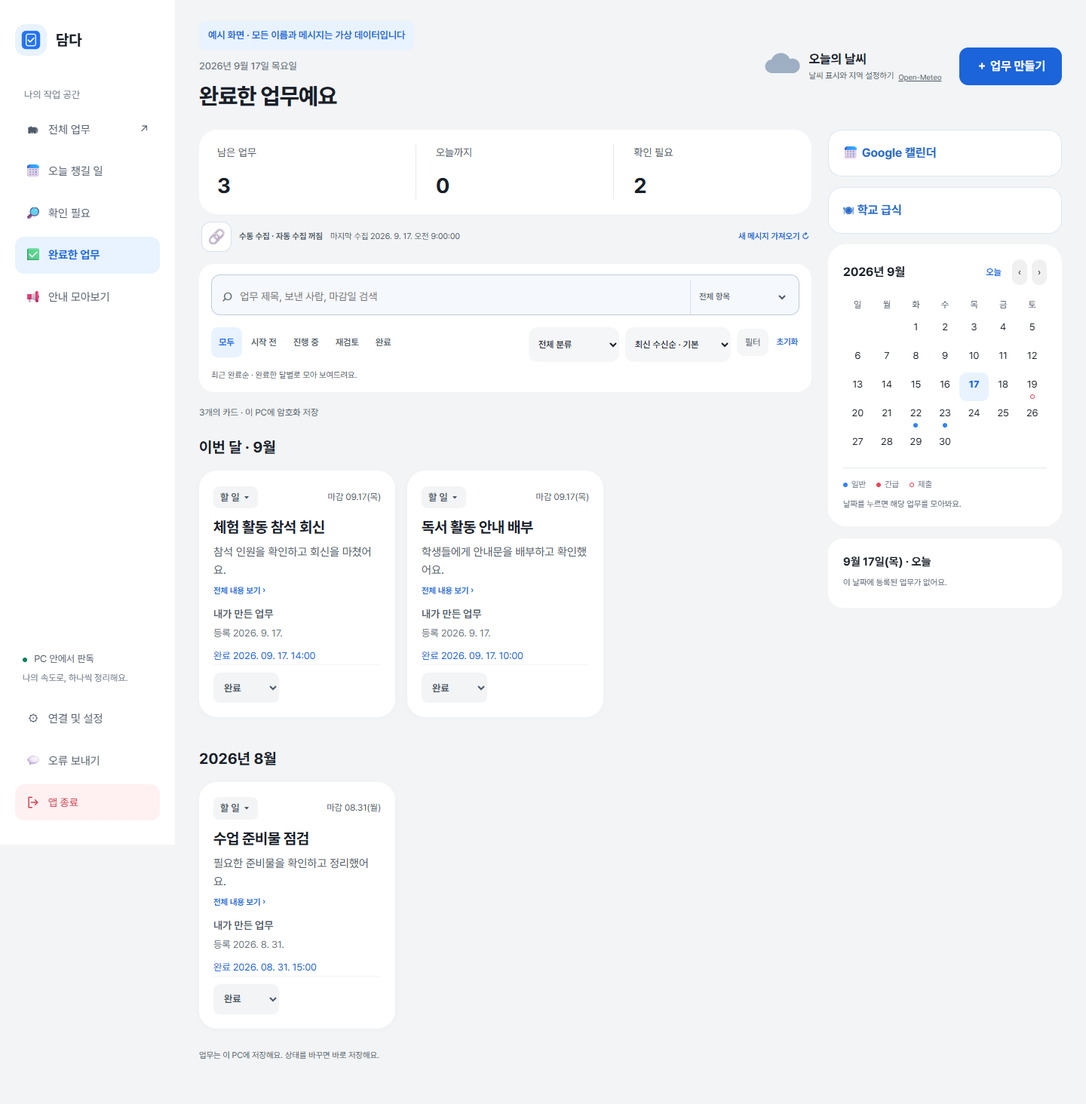
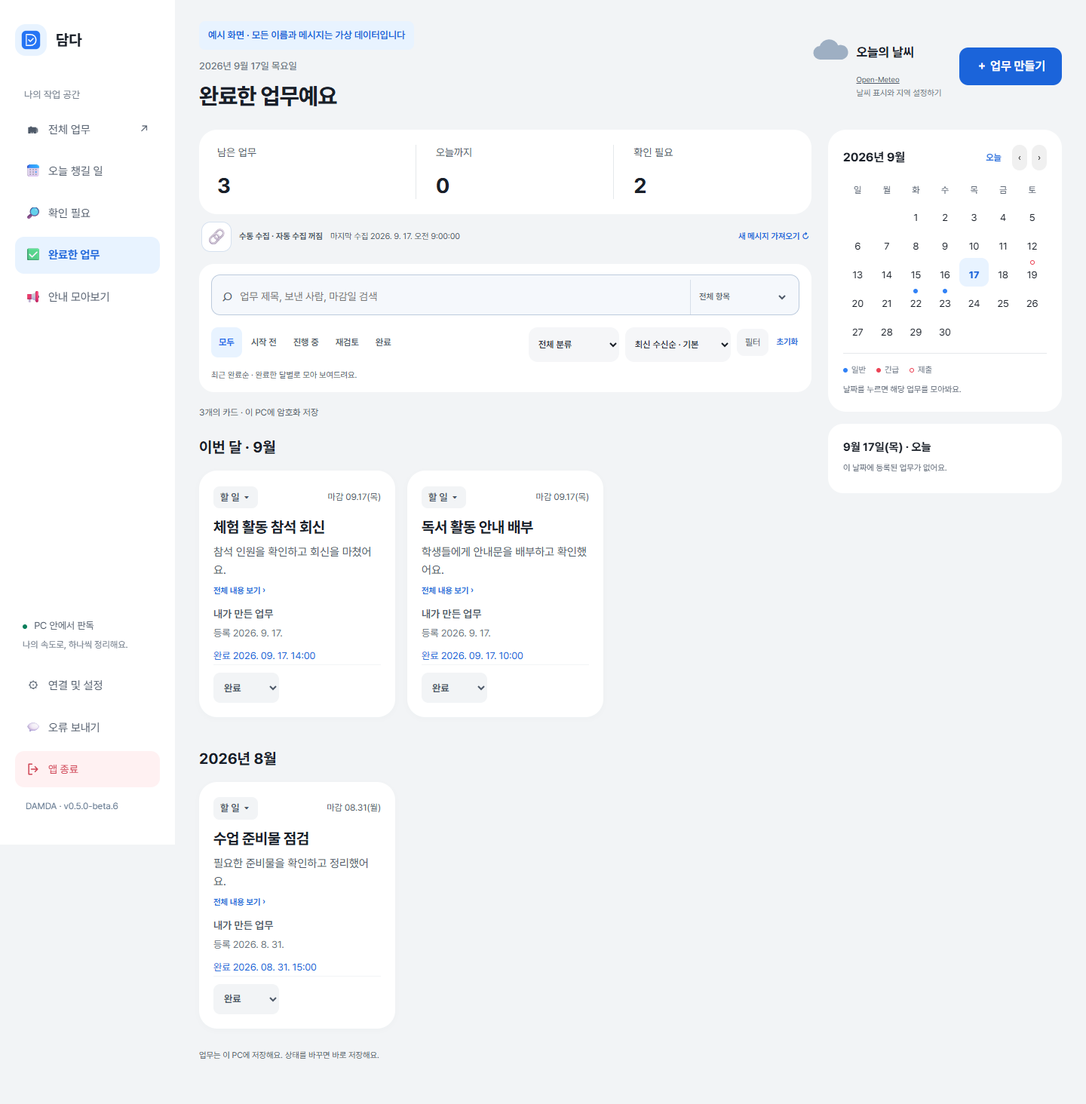
Focus beta.6 release and document Damda's evidenced development story

diff --git a/docs/index.html b/docs/index.html
@@ -3,7 +3,7 @@
 <head><meta charset="utf-8"><meta name="viewport" content="width=device-width, initial-scale=1"><meta name="description" content="담다 DAMDA는 선생님의 메시지를 업무 카드로 모아 정리하는 Windows 앱입니다."><title>담다 DAMDA · 선생님의 하루를 담다</title><link rel="stylesheet" href="styles.css"></head>
 <body>
 <a class="skip" href="#main">본문으로 이동</a>
-<header class="site-header"><a class="brand" href="#"><span class="brand-icon" aria-hidden="true">✓</span>담다 DAMDA</a><nav aria-label="소개 페이지"><a href="#features">주요 기능</a><a href="#start">시작하기</a><a href="#scope">개발 현황</a></nav></header>
+<header class="site-header"><a class="brand" href="#"><span class="brand-icon" aria-hidden="true">✓</span>담다 DAMDA</a><nav aria-label="소개 페이지"><a href="#features">주요 기능</a><a href="#start">시작하기</a><a href="#scope">개발 현황</a><a href="#behind-damda">담다 이야기</a></nav></header>
 <main id="main">
 <section class="hero wrap"><p class="eyebrow">Daily Assistant for Messaging &amp; Data Archive</p><h1>메시지에서 찾던 할 일,<br>이제 카드에서 챙겨요.</h1><p class="lead">요청과 회의를 업무 카드로 모아 보세요.<br>원문을 확인하고, 마감을 수정하고, 끝낸 일까지 한곳에서 관리해요.</p><div class="actions"><a class="button" href="#preview">화면 미리 보기 <span aria-hidden="true">↓</span></a><a class="button secondary" href="https://github.com/pandabin3-code/damda-releases/releases">설치 파일 받기</a></div><p class="fine">Windows 64비트 설치형 베타 · 쿨메신저 연결은 선택 사항이에요.</p>
 <figure id="preview" class="hero-preview"><img src="images/01-dashboard.png" alt="가상 업무 카드들이 보낸 사람, 마감과 진행 상태를 보여주는 전체 업무 화면"><figcaption>화면에 등장하는 이름과 메시지는 모두 예시 데이터예요.</figcaption></figure></section>
@@ -15,8 +15,40 @@
 <section class="wrap trust"><div><p class="eyebrow">내 PC 안에 저장</p><h2>원문을 보관하고,<br>내가 수정한 업무를 지켜요.</h2><p>검증한 백업 복사본에서 메시지를 가져와요. 원문과 업무는 현재 Windows 사용자 계정에 연결된 방식으로 암호화해 저장해요.</p><p>현재 판독은 로컬 규칙 기반이며 외부 AI로 메시지를 보내지 않아요. 저장 파일 복사만으로 다른 기기에 이관할 수 있는 구조는 아니에요.</p></div><aside><h3>문제가 생겼나요?</h3><p>‘오류 보내기’에서 상황을 적으면 진단 정보를 담은 GitHub 오류 작성 화면으로 연결돼요. 메시지 원문과 보낸 사람 정보는 자동으로 포함하지 않아요.</p><p class="fine">GitHub에서 내용을 확인하고 제출해 주세요. 직접 적은 설명에도 개인정보가 없는지 확인해 주세요.</p></aside></section>
 <section class="wrap scope" id="scope"><div class="section-heading"><p class="eyebrow">개발 현황</p><h2>지금 가능한 것과<br>앞으로 준비할 것.</h2><p>설치 파일로 시작하고, 새 버전 알림으로 개선 사항을 받아보세요. 자동 판독은 원문과 함께 확인해 주세요.</p></div><div class="scope-grid"><article><span class="pill">현재 설치형 베타</span><h3>Windows PC에서 사용할 수 있어요</h3><ul><li>업무 카드 생성·편집·검색·상태 관리</li><li>선택형 쿨메신저 가져오기와 원문 확인</li><li>로컬 규칙 기반 요약·종류 분류</li><li>날짜 제안·확인 필요 표시와 완료 시각 기록</li><li>링크·첨부파일 바로 열기, 분류 빠른 변경</li><li>새 버전 알림과 설치 파일 업데이트</li><li>현재 계정에 연결된 암호화 저장</li></ul><p class="fine">Python을 따로 설치하지 않아도 돼요. WebView2가 필요하며, 설치 마법사에서 런타임 설치를 도와줘요.</p></article><article><span class="pill muted">후속 계획</span><h3>기기와 사용 환경을 넓혀갈 예정이에요</h3><ul><li>모바일 이용 경험 개선</li><li>다른 기기와의 안전한 자료 연동</li><li>검증 자료에 기반한 소형 모델 검토</li><li>모바일 이용과 Google Drive 동기화</li></ul><p class="fine">모바일 앱·동기화·학습된 소형 AI는 현재 제공 기능이 아니에요. PC·모바일 읽음 상태 보존을 보장하는 버전도 아니에요.</p></article></div></section>
 <section class="feature wrap"><div class="feature-copy"><p class="eyebrow">확인할 수 있는 자동 정리</p><h2>왜 이렇게 정리됐는지,<br>근거를 함께 확인해요.</h2><p>최초 판독에 사용한 원문 구간과 확인이 필요한 이유를 펼쳐 볼 수 있어요. 대상과 날짜가 맞는지 확인하고 내 업무에 맞게 다듬어 보세요.</p><p class="fine">이 설명은 처음 가져왔을 때의 분석이에요. 직접 수정한 내용의 정확성을 보증하지 않아요.</p></div><figure><img src="images/07-analysis.png" loading="lazy" alt="가상 메시지에서 추출한 원문 근거와 검토 이유를 펼친 업무 상세 화면"><figcaption>예시 데이터 · 원문 근거와 확인할 내용을 함께 보여줘요.</figcaption></figure></section>
-<section id="connected-tools" class="feature wrap"><div class="feature-copy"><p class="eyebrow">베타 0.5 · 선택해서 연결</p><h2>필요한 업무를<br>Google 캘린더에도.</h2><p>업무의 제목과 날짜·시간을 확인하고 선택한 캘린더에 등록하거나 갱신해요. 같은 업무의 중복 등록을 방지하고, Google에서 바뀐 일정은 덮어쓰기 전에 멈춰요.</p><p class="fine">담다 → Google 단방향 수동 동기화입니다. 데스크톱 OAuth 설정과 Google 로그인이 필요해요. 실제 계정 연결 검증은 별도이며 학교 계정 정책에 따라 제한될 수 있어요.</p></div><figure><img src="images/08-calendar.png" loading="lazy" alt="합성 Google 연결 상태와 가상 업무를 선택하는 캘린더 화면"><figcaption>합성 예시 · 실제 계정이나 일정이 아닙니다.</figcaption></figure></section>
-<section class="tint"><div class="feature wrap reverse"><div class="feature-copy"><p class="eyebrow">베타 0.5 후속 기능</p><h2>이번 주 급식도<br>같은 공간에서.</h2><p>학교를 선택하고 주간 식단과 영양 정보를 살펴봐요. 한 번 조회한 결과는 잠시 보관해 반복 조회를 줄여요.</p><p class="fine">나이스 정식 인증키가 필요해요. 학교가 식단을 등록하지 않은 날과 통신 오류를 구분해서 알려드려요. 실제 학교 조회는 인증키 설정 후 확인할 수 있어요.</p></div><figure><img src="images/09-meals.png" loading="lazy" alt="가상의 학교와 식단으로 구성한 급식 조회 화면"><figcaption>합성 식단 예시 · 실제 학교 식단이 아닙니다.</figcaption></figure></div></section>
+<section id="behind-damda" class="behind tint" aria-labelledby="behind-title">
+  <div class="wrap">
+    <div class="section-heading">
+      <p class="eyebrow">담다를 만들며</p>
+      <h2 id="behind-title">처음부터<br>지금의 담다는 아니었어요.</h2>
+      <p>분명 읽었는데, 다시 찾게 되는 제출 기한.<br>메시지를 읽는 일과 해야 할 일을 챙기는 일 사이에서 시작했습니다.</p>
+      <p class="fine">프로젝트에 남아 있는 프로그램과 개발 기록으로 돌아본 이야기예요.<br>화면의 내용은 모두 가상 예시이며, 재촬영한 화면은 따로 표시했어요.</p>
+    </div>
+    <article class="story-scene story-first">
+      <div class="story-copy"><span class="pill">처음의 업무함</span><h3>메시지를 옮겨,<br>할 일의 초안을 만들었어요.</h3><p>초기 TeacherInbox는 표로 된 업무함이었어요. 메시지를 직접 넣고 제목과 날짜를 살펴보며 업무로 정리했죠. 이후에는 검증된 백업에서 가져오는 기능도 붙었습니다.</p><p>그런데 정보를 가져오는 것만으로는 충분하지 않았어요. 결국 선생님이 해야 할 일이 잘 보여야 했습니다.</p></div>
+      <figure><div class="story-frame">보존된 초기 프로그램 · 재실행</div><img src="images/story-01-legacy-inbox.png" loading="lazy" alt="초기 TeacherInbox의 표 형태 업무 목록과 오른쪽 검토 입력란"><figcaption>초기 계열의 보존 소스로 재촬영 · 합성 예시 · 당시 최초 빌드와는 다를 수 있어요.</figcaption></figure>
+    </article>
+    <article class="story-scene">
+      <div class="story-copy"><span class="pill">다른 화면도 시도했어요</span><h3>오늘 할 일을<br>앞에 두고 싶었어요.</h3><p>할 일과 일정을 함께 보여주는 COOL 업무비서를 거쳐, 더 단순한 개인 작업 공간도 만들어 보았습니다. 목록 옆에서 실행 방법과 근거를 확인하고 고치는 실험이었어요.</p><p>여러 화면을 만들며 남은 질문은 하나였어요. “다시 읽고 찾는 수고를 얼마나 줄일 수 있을까?”</p></div>
+      <figure><div class="story-frame">개인 작업 공간 · 별도로 시도한 화면</div><img src="images/story-02-personal-workspace.png" loading="lazy" alt="NewWorkspace에서 오늘의 업무 목록과 실행 정보 및 근거를 함께 보여주는 화면"><figcaption>보존된 사용 흐름 실험을 재실행 · 자체 합성 예시 · 실제 메시지 연결 화면이 아니에요.</figcaption></figure>
+    </article>
+    <article class="story-scene">
+      <div class="story-copy"><span class="pill">업무 카드의 시작</span><h3>이제 메시지를<br>카드에 담아 보았습니다.</h3><p>TaskCards에서는 메시지 속 요청을 큰 카드로 모으고, 상태를 바꾸며 처리할 수 있게 했어요. 지금 담다 카드 화면의 초기 모습입니다.</p><p>처음에는 내용을 많이 보여주려 했어요. 글자 잘림을 고치자 카드가 길어졌고, 이후에는 짧게 훑어본 뒤 원문을 펼치는 방향으로 다듬었습니다.</p></div>
+      <figure><div class="story-frame">보존된 TaskCards 소스 · 재실행</div><img src="images/story-03-taskcards-archive.png" loading="lazy" alt="초기 업무 카드 화면의 큰 카드와 상태 선택 버튼"><figcaption>보존된 v0.1.0 카드 UI로 재촬영 · 합성 예시 · 실행에 필요한 저장 기반은 현재 모듈을 사용했어요.</figcaption></figure>
+    </article>
+    <div class="story-lessons">
+      <article><h3>나눌수록 편한 건 아니었어요.</h3><p>한 메시지에서 요청을 나눠 여러 카드를 만들기도 했어요. 하지만 비슷한 카드가 반복되어 보였습니다. 그래서 지금은 메시지 하나를 카드 하나에 담고, 이전 수정 기록도 남겨요.</p></article>
+      <article><h3>짧다고 늘 좋은 요약은 아니었어요.</h3><p>기한만큼 대상과 조건도 중요했어요. 지금도 자동 정리가 틀릴 수 있어요. 원문과 판단 근거를 함께 확인하고, 분류와 내용을 직접 고칠 수 있게 했습니다.</p></article>
+    </div>
+    <article class="story-current">
+      <div class="section-heading"><p class="eyebrow">그리고 지금의 담다</p><h3>메시지는 담아 두고,<br>할 일은 한눈에.</h3><p>짧은 카드에서 업무를 찾고, 필요할 때 원문을 펼쳐요.<br>끝낸 일은 기록하고, 다음 개선은 업데이트로 전합니다.</p></div>
+      <figure><div class="story-frame">현재 담다 · 공개판</div><img src="images/01-dashboard.png" loading="lazy" alt="현재 담다의 업무 카드, 검색 및 마감 달력"><figcaption>현재 앱을 합성 메시지로 촬영 · 개인 메시지와 계정 정보는 포함하지 않았어요.</figcaption></figure>
+      <p class="story-ending">담다는 아직 다듬는 중입니다.<br>선생님의 하루에서 다시 찾는 수고가 조금씩 줄어들기를 바랍니다.</p>
+      <p class="story-name">담다 <span>Daily Assistant for Messaging &amp; Data Archive</span></p>
+      <p class="fine"><a href="STORY_SOURCES.md">이 이야기에 사용한 기록과 화면 출처 보기</a></p>
+    </article>
+  </div>
+</section>
+
 <section class="wrap closing"><h2>요청은 모아 보고,<br>끝낸 일은 기록해요.</h2><a class="button" href="#preview">담다 화면 보기 <span aria-hidden="true">↑</span></a><p class="fine">설치 파일은 GitHub Releases에서 받을 수 있어요. 이 소개 자료에는 개인 메시지가 포함되지 않아요.</p></section>
 </main><footer class="wrap footer"><span class="brand">담다 DAMDA</span><p>자체 제작한 소개 화면 · 합성 예시 데이터 사용<br>외부 이미지·글꼴·분석 서비스 요청 없이 열 수 있어요.</p></footer>
 </body></html>

diff --git a/docs/styles.css b/docs/styles.css
@@ -1,1 +1,3 @@
 :root{color-scheme:light;--ink:#191f28;--muted:#586779;--primary:#1b64da;--paper:#f2f4f6;--line:#e5e8eb;font-family:"Apple SD Gothic Neo","Pretendard Variable","Malgun Gothic",system-ui,sans-serif;color:var(--ink);background:#fff;font-synthesis:none;line-height:1.65;word-break:keep-all;overflow-wrap:anywhere}*{box-sizing:border-box}html{scroll-behavior:smooth;scroll-padding-top:100px}body{margin:0}a{color:inherit;text-decoration:none}a:focus-visible{outline:3px solid #86b6ff;outline-offset:5px}img{display:block;width:100%;height:auto}figure{margin:0}figcaption{font-size:13px;color:var(--muted);margin-top:15px;text-align:center}h1,h2,h3,p{margin:0}h1,h2,h3{line-height:1.3;letter-spacing:-.045em}h1{font-size:clamp(36px,5vw,66px);font-weight:800}h2{font-size:clamp(28px,3.2vw,42px)}h3{font-size:23px}p{color:var(--muted)}.wrap{width:min(1160px,calc(100% - 64px));margin:auto}.site-header{display:flex;align-items:center;justify-content:space-between;gap:20px;padding:20px max(32px,calc((100vw - 1160px)/2));border-bottom:1px solid var(--line);background:#fff}.brand{display:flex;align-items:center;gap:10px;font-size:20px;font-weight:800;white-space:nowrap}.brand-icon{display:grid;place-items:center;background:#e8f3ff;color:var(--primary);border-radius:12px;width:38px;height:38px}.site-header nav{display:flex;gap:28px;font-size:15px;color:var(--muted)}.skip{position:absolute;top:-100px;background:var(--primary);color:white;padding:10px;z-index:5}.skip:focus{top:5px}.hero{padding-top:86px;text-align:center}.eyebrow{font-size:15px;color:var(--primary);font-weight:700;margin-bottom:20px}.lead{font-size:21px;line-height:1.75;margin-top:26px}.actions{display:flex;justify-content:center;flex-wrap:wrap;gap:12px;margin:32px 0 18px}.button{display:inline-flex;align-items:center;justify-content:center;gap:16px;min-height:54px;padding:14px 24px;border-radius:14px;background:var(--primary);color:white;font-weight:700}.button:hover{background:#1555bd}.button.secondary{background:#edf3fb;color:var(--primary)}.fine{font-size:14px;line-height:1.75}.hero-preview{margin:52px 0 110px}.hero-preview img{border:1px solid var(--line);border-radius:20px;box-shadow:0 22px 65px #192e4812}.section-heading{margin-bottom:42px}.section-heading>p:last-child:not(.eyebrow){margin-top:22px}.benefits{display:grid;grid-template-columns:repeat(3,1fr);gap:20px;margin-bottom:110px}.benefits article{padding:32px;border-radius:24px;background:var(--paper)}.step{font-weight:800;color:var(--primary);font-size:15px;display:block;margin-bottom:35px}.benefits p{margin-top:16px}.feature{display:grid;grid-template-columns:1fr 1.35fr;gap:52px;align-items:center;padding-top:92px;padding-bottom:92px}.feature-copy>p:not(.eyebrow){margin-top:24px;font-size:17px}.feature-copy>p.fine{font-size:14px}.feature figure img,.settings-preview img{border:1px solid var(--line);border-radius:20px;box-shadow:0 12px 40px #192e480b}.tint{background:#f7f9fc}.reverse .feature-copy{order:2}.reverse figure{order:1}.subtle{color:#6b7684}.review-mark{color:#a55b00}.onboarding{padding-top:90px;padding-bottom:90px}.steps{padding:0;list-style:none;counter-reset:steps;display:grid;grid-template-columns:repeat(4,1fr);gap:28px;margin:0 0 45px}.steps li{counter-increment:steps}.steps li:before{content:counter(steps);display:grid;place-items:center;width:34px;height:34px;border-radius:50%;background:#e8f3ff;color:var(--primary);font-weight:800;margin-bottom:18px}.steps strong{font-size:18px}.steps p{margin-top:12px;font-size:15px}.settings-preview{max-width:840px;margin:auto}.trust{display:grid;grid-template-columns:1.3fr 1fr;gap:80px;padding-top:110px;padding-bottom:110px}.trust>div>p:not(.eyebrow){margin-top:24px}.trust aside{align-self:center;padding:32px;border-radius:24px;background:var(--paper)}.trust aside p{margin-top:18px}.scope{padding-top:20px;padding-bottom:100px}.scope-grid{display:grid;grid-template-columns:1fr 1fr;gap:24px}.scope-grid article{border:1px solid var(--line);border-radius:24px;padding:32px}.pill{display:inline-block;color:var(--primary);background:#e8f3ff;border-radius:8px;font-size:13px;font-weight:700;padding:5px 10px;margin-bottom:20px}.pill.muted{background:var(--paper);color:var(--muted)}ul{padding-left:20px;color:var(--muted);margin:22px 0}li+li{margin-top:8px}.closing{border-radius:30px;background:var(--paper);text-align:center;padding:60px 30px}.closing .button{margin:30px 0 20px}.footer{display:flex;justify-content:space-between;align-items:center;gap:28px;padding-top:50px;padding-bottom:40px}.footer p{font-size:13px;text-align:right}@media(max-width:800px){.wrap{width:calc(100% - 40px)}.site-header{padding:18px 20px}.site-header nav{gap:16px;font-size:13px}.hero{padding-top:60px}.lead{font-size:18px}.hero-preview{margin-bottom:70px}.benefits{grid-template-columns:1fr;margin-bottom:50px}.benefits article{padding:26px}.step{margin-bottom:18px}.feature{grid-template-columns:1fr;gap:35px;padding-top:65px;padding-bottom:65px}.reverse .feature-copy{order:0}.reverse figure{order:0}.steps{grid-template-columns:1fr 1fr;gap:30px}.trust{grid-template-columns:1fr;gap:32px;padding-top:70px;padding-bottom:70px}.scope-grid{grid-template-columns:1fr}.scope{padding-bottom:60px}.onboarding{padding-top:65px;padding-bottom:65px}.footer{align-items:flex-start}.closing{width:calc(100% - 40px)}}@media(max-width:440px){.site-header{flex-wrap:wrap;gap:12px}.site-header nav{width:100%;justify-content:space-between}.steps{grid-template-columns:1fr}.hero h1 br{display:none}.lead br{display:none}.actions{flex-direction:column}.footer{flex-direction:column}.footer p{text-align:left}.scope-grid article{padding:24px}}@media(prefers-reduced-motion:reduce){html{scroll-behavior:auto}}
+/* Behind story uses the existing palette, text scale and image treatment. */
+.behind{padding:95px 0}.story-scene{display:grid;grid-template-columns:minmax(0,.7fr) minmax(0,1.3fr);gap:45px;align-items:center;margin:90px 0}.story-scene>*{min-width:0}.story-copy h3,.story-current h3{font-size:clamp(26px,3vw,40px);line-height:1.4;letter-spacing:-.035em}.story-copy p{margin-top:22px}.story-first figure{max-width:650px;margin-left:auto}.story-frame{padding:12px 18px;color:var(--muted);font-size:12px;border-bottom:1px solid var(--line);background:white;border-radius:18px 18px 0 0}.behind figure img{border-radius:0;display:block;width:100%;height:auto}.behind figure{overflow:hidden;border-radius:18px;background:white}.behind figcaption{padding:12px 18px;font-size:12px}.story-lessons{display:grid;grid-template-columns:1fr 1fr;gap:24px;margin:65px 0 100px}.story-lessons article{background:white;border-radius:24px;padding:30px}.story-lessons p{margin-top:16px}.story-current{text-align:center}.story-current figure{text-align:left}.story-ending{margin:45px 0 20px;font-size:20px}.story-name{font-weight:700;color:#486484}.story-name span{display:block;font-size:14px;font-weight:400;color:#7189a4;margin:8px 0 20px}.behind .fine a{text-decoration:underline;text-underline-offset:4px}@media(max-width:800px){.story-scene{grid-template-columns:1fr;gap:28px;margin:60px 0}.story-first figure{max-width:none}.story-lessons{grid-template-columns:1fr;margin-bottom:65px}.behind{padding:65px 0}.story-scene figure{margin:0}.story-ending{font-size:18px}}

diff --git a/RELEASE_GUIDE.md b/RELEASE_GUIDE.md
@@ -1,60 +1,19 @@
-# 담다 DAMDA 배포 안내 · 0.5.0-beta.3
+# 담다 0.5.0-beta.6
 
 Daily Assistant for Messaging & Data Archive
 
-## 설치와 업데이트
+이번 공개판은 쿨메신저 메시지와 업무 카드 관리에 집중합니다.
 
-- 권장 파일: `Damda-WebView-Preview-Setup-0.5.0-beta.3-x64.exe`. 일반 프로그램 창으로 실행합니다.
-- 대체 파일: `Damda-Setup-0.5.0-beta.3-x64.exe`. 기본 브라우저에서 실행합니다. 두 버전은 같은 사용자 업무를 사용하므로 동시에 실행하지 않습니다.
-- Windows 64비트용입니다. Python을 따로 설치할 필요가 없습니다. WebView 버전은 Microsoft WebView2 런타임이 필요하며 설치 마법사가 런타임 설치를 지원합니다. 런타임이 없는 PC는 인터넷 연결이 필요합니다.
-- 편집 내용을 저장한 뒤 새 설치 파일을 실행하세요. 설치 프로그램이 실행 중인 담다에 정상 종료를 요청하고 파일 잠금 해제를 기다립니다. 가져오기나 동기화가 진행 중이면 완료 후 다시 설치하세요. 강제 종료로 저장을 건너뛰지 않습니다.
-- 위 자동 종료 요청은 권장 WebView 설치본의 동작입니다. 브라우저 대체 설치본은 앱의 `앱 종료`를 먼저 눌러야 합니다. 브라우저 탭만 닫으면 백엔드가 남을 수 있습니다.
-- 앱 시작 시와 사용 중 약 6시간 간격으로 새 버전을 확인합니다. 새 버전이 있으면 알림과 다운로드 링크를 표시합니다. 다운로드와 설치는 사용자가 시작합니다. 자동으로 강제 업데이트하지 않습니다.
-- 업무와 설정은 설치 폴더 밖에 보관합니다. 재설치·업데이트·일반 제거는 업무 초기화가 아닙니다. 초기 화면 검증은 별도의 첫 실행 테스트 기능을 사용하세요.
-- 베타 설치 파일에는 코드 서명이 없습니다. 조직의 실행 제한이나 Windows 보안 정책 때문에 설치가 차단될 수 있습니다. 승인된 배포 정책을 따르세요.
+- Google 캘린더 연결과 급식 조회를 제외했습니다. 앱 안의 업무 마감 달력은 유지합니다.
+- 개인 메시지를 사용하는 ‘요약 함께 교정’은 공개판에서 제외했습니다. 기존 개인 교정 파일과 업무는 삭제하지 않습니다.
+- 현재 사용자 계정의 메시지함 탐지와 문서 폴더 이동을 합성 환경에서 확인했습니다. 후보가 여러 개면 임의로 선택하지 않고 설정에서 선택합니다.
+- 소개 페이지에 초기 TeacherInbox·TaskCards의 보존된 프로그램을 재실행한 화면과 담다의 개발 이야기를 추가했습니다. 모든 화면은 가상 예시입니다.
 
-## 다른 PC에서 달라지는 부분
+설치 파일은 사용 중인 방식에 맞게 선택하세요. 일반 앱 창은 WebView, 브라우저 사용자는 기본 설치 파일입니다. beta.4 이상은 앱의 자동 업데이트 버튼으로 다운로드·검증·설치를 시작할 수 있습니다. 그 이전 버전은 새 설치 파일을 직접 실행하세요. 미저장 편집은 저장한 뒤 업데이트하세요.
 
-- 쿨메신저 메시지함은 각 PC에서 기본 위치를 찾습니다. 다른 위치에 설치했다면 설정에서 변경합니다. 개발자의 경로를 기본값으로 배포하지 않습니다.
-- 첨부파일 기본 위치는 해당 Windows 사용자의 문서 폴더 안 `CoolMessenger Files / Received Files`입니다. 문서 폴더가 이동된 환경도 사용자의 문서 위치를 따릅니다. 설정에서 변경할 수 있습니다.
-- 자동 가져오기 작업은 PC마다 최초 한 번 연결해야 합니다. 관리자 계정의 UAC 승인으로 등록한 뒤 주기적 가져오기에는 별도 승인 창을 띄우지 않습니다. 일반 사용자 계정에서 다른 관리자 자격 증명을 쓰는 경우는 같은 흐름을 보장하지 않으며 전산 담당자 설정이 필요할 수 있습니다.
-- 쿨메신저가 없는 PC에서도 업무를 직접 만들 수 있습니다. 연결을 강제하지 않습니다.
-- 학교 방화벽은 GitHub, Google, 날씨 제공처, 나이스 접속을 제한할 수 있습니다. 연결 실패를 최신 버전 또는 급식 없음으로 표시하지 않습니다.
-- 저장 내용은 현재 Windows 사용자 계정에 연결해 암호화합니다. 파일 복사만으로 다른 PC에서 복원하는 기능은 제공하지 않습니다. 모바일 읽음 상태는 검증 유예 상태이며 보존을 보장하지 않습니다.
+Windows x64 베타입니다. 다른 물리 PC 전부에서의 동작을 보장하는 검증은 아니며, 학교 보안 정책에 따라 백업 연결이 제한될 수 있습니다. 실제 원문 판독은 로컬 규칙 기반으로, 필요한 부분은 원문과 함께 확인해 주세요.
 
-## Google 캘린더 · beta.1에서 추가
 
-오른쪽 `📅 Google 캘린더`에서 연결합니다. 현재는 **담다 → Google 단방향 수동 동기화**입니다. 제목·마감일·시각을 확인한 업무만 선택해서 등록하거나 갱신합니다. 원문, 첨부파일, 발신자 필드를 자동 전송하지 않습니다. 제목 자체에 개인정보를 적었다면 전송 전에 확인하세요.
+[WebView download](https://github.com/pandabin3-code/damda-releases/releases/download/v0.5.0-beta.6/Damda-WebView-Preview-Setup-0.5.0-beta.6-x64.exe)
 
-Google Cloud에서 Calendar API를 활성화하고 OAuth 동의 화면과 **데스크톱 앱** 클라이언트를 구성해야 합니다. 앱의 최초 연결 설정에 다운로드한 JSON 경로를 입력한 뒤 Google 로그인을 누릅니다. 로그인은 시스템 브라우저에서 진행하며 PKCE와 임의 포트의 로컬 콜백을 사용합니다. 테스트 모드의 사용자 제한·인증 만료, 학교 계정의 관리 정책이 적용될 수 있습니다. 공개 배포용 OAuth 동의 화면과 필요한 Google 검증은 배포자가 별도로 준비해야 합니다.
-
-현재 배포에는 개발자 OAuth JSON이나 사용자 토큰이 포함되지 않습니다. 실제 계정 로그인·일정 등록은 계정 설정이 없어 아직 검증하지 않았습니다. 합성 테스트로 중복 ID, 재시도, ETag 충돌, 선택 확인 및 원문 미전송 경로를 검증했습니다.
-
-연결을 해제해도 이미 등록한 일정은 삭제하지 않습니다. Google에서 삭제·변경한 일정은 무조건 복원하거나 덮어쓰지 않습니다. 완료·삭제 상태의 양방향 동기화는 제공하지 않습니다.
-
-공식 문서: https://developers.google.com/identity/protocols/oauth2/native-app
-
-## 학교 급식 · beta.2에서 추가
-
-오른쪽 `🍽 학교 급식`에서 나이스 인증키를 저장하고 학교 이름을 검색해 선택합니다. 주간 식단·칼로리·영양 정보를 조회하며 알레르기 표시는 유지합니다. 조회 결과는 실행 중 최대 12주, 6시간 동안 캐시합니다. 앱을 다시 실행하면 캐시를 새로 만듭니다.
-
-인증키 없는 응답은 5건 제한의 시험용이므로 정식 식단 화면에 사용하지 않습니다. 실제 키가 없어 실학교 조회는 아직 검증하지 않았습니다. API 파싱·학교 선택·빈 결과·접속 실패·이전 결과 표시를 합성 응답으로 검증했습니다.
-
-공식 안내: https://open.neis.go.kr/portal/guide/apiGuidePage.do
-
-## 요약 교정
-
-설정의 `✍ 요약 함께 교정`으로 열립니다. 준비된 교정 자료가 있는 PC에서 후보 선택·직접 작성·분류 변경·자동 중간 저장·부분 제출을 할 수 있습니다. 선택 결과는 다음 후보의 추천 순서에 반영됩니다. 확정 답변은 후속 알고리즘 교정을 위한 자료이며, 자동으로 학습을 마쳤다는 뜻은 아닙니다.
-
-이번 작업의 실제 메시지 200건은 요청자의 PC에만 암호화해 저장했습니다. 공개 설치 파일과 소개 ZIP에는 포함하지 않습니다. 부분 제출 시 만든 JSON에는 사용자가 확정한 문구가 들어 있으므로 공개 GitHub 오류 보고에 첨부하지 마세요.
-
-## 오류 보고
-
-앱의 오류 보내기에서 설명을 입력하고 보고서를 준비하면 GitHub 작성 화면으로 연결됩니다. 사용자가 확인하여 제출해야 공개 이슈가 생성됩니다. 진단 정보는 앱 버전·허용된 상태 값 중심이며 메시지 원문과 발신자 명단을 자동 수집하지 않습니다.
-## 0.5.0-beta.4 업데이트 흐름
-
-이 버전에는 D+체크 아이콘, 메인 메뉴의 버전 표시, 날짜 위 달력 점, 자동 업데이트 버튼이 추가됩니다. 공개 설치 파일명은 `Damda-WebView-Preview-Setup-0.5.0-beta.4-x64.exe` 및 `Damda-Setup-0.5.0-beta.4-x64.exe`입니다.
-
-beta.3 이하에서 beta.4로 올라오는 첫 설치는 기존 다운로드 방식으로 실행합니다. beta.4부터 이후 버전은 자동 업데이트 버튼으로 공식 GitHub 파일 다운로드·SHA-256 검증·정상 종료·설치·재실행을 이어갑니다. 편집 중이면 먼저 저장해야 하고, 가져오기/캘린더 동기화 중이면 설치를 보류합니다. 사용자의 실제 저장 폴더를 재실행 인수로 유지합니다. 검증 불일치나 다운로드 실패 시 설치하지 않습니다. 임의의 클라이언트 제공 실행 파일 경로나 URL을 실행하지 않습니다.
-
-서비스 등록이 필요한 Google 로그인/급식 간편 연결은 별도 준비 중입니다. 아래 beta.3의 최초 설정 관련 설명은 아직 해당 기능의 현재 제약을 설명합니다.
+[Introduction](https://pandabin3-code.github.io/damda-releases/)

diff --git a/README.md b/README.md
@@ -1,36 +1,19 @@
-# 담다 DAMDA
+# 담다 0.5.0-beta.6
 
-**Daily Assistant for Messaging & Data Archive**
+Daily Assistant for Messaging & Data Archive
 
-선생님의 하루를 담다. 메시지 속 요청을 업무 카드로 정리하고, 원문을 확인하며 마감과 완료를 관리하는 Windows 앱입니다.
+이번 공개판은 쿨메신저 메시지와 업무 카드 관리에 집중합니다.
 
-[최신 설치 파일과 변경 사항](https://github.com/pandabin3-code/damda-releases/releases) · [오류 보고](https://github.com/pandabin3-code/damda-releases/issues/new)
+- Google 캘린더 연결과 급식 조회를 제외했습니다. 앱 안의 업무 마감 달력은 유지합니다.
+- 개인 메시지를 사용하는 ‘요약 함께 교정’은 공개판에서 제외했습니다. 기존 개인 교정 파일과 업무는 삭제하지 않습니다.
+- 현재 사용자 계정의 메시지함 탐지와 문서 폴더 이동을 합성 환경에서 확인했습니다. 후보가 여러 개면 임의로 선택하지 않고 설정에서 선택합니다.
+- 소개 페이지에 초기 TeacherInbox·TaskCards의 보존된 프로그램을 재실행한 화면과 담다의 개발 이야기를 추가했습니다. 모든 화면은 가상 예시입니다.
 
-## 설치
+설치 파일은 사용 중인 방식에 맞게 선택하세요. 일반 앱 창은 WebView, 브라우저 사용자는 기본 설치 파일입니다. beta.4 이상은 앱의 자동 업데이트 버튼으로 다운로드·검증·설치를 시작할 수 있습니다. 그 이전 버전은 새 설치 파일을 직접 실행하세요. 미저장 편집은 저장한 뒤 업데이트하세요.
 
-최신 **0.5.0-beta.4**에는 D+체크 아이콘, 왼쪽 메뉴의 버전 표시, 날짜 위 업무 점과 자동 업데이트 버튼이 포함됩니다. beta.3 이하에서는 이번 설치 파일을 한 번 직접 실행하고, beta.4부터 다음 버전은 자동 업데이트 버튼으로 다운로드·검증·설치·재실행을 진행할 수 있습니다.
+Windows x64 베타입니다. 다른 물리 PC 전부에서의 동작을 보장하는 검증은 아니며, 학교 보안 정책에 따라 백업 연결이 제한될 수 있습니다. 실제 원문 판독은 로컬 규칙 기반으로, 필요한 부분은 원문과 함께 확인해 주세요.
 
-일반 프로그램 창은 `Damda-WebView-Preview-Setup-…-x64.exe`를 받으세요. `Damda-Setup-…-x64.exe`는 브라우저 방식의 대체 설치본입니다. Python은 필요하지 않습니다. WebView2 런타임이 없는 경우 설치 과정에서 인터넷 연결이 필요합니다.
 
-앱 시작 시와 사용 중 약 6시간 간격으로 새 버전을 확인하고 알려드립니다. beta.4부터는 자동 업데이트 버튼을 누르면 다운로드부터 설치까지 이어집니다. 편집 내용은 먼저 저장해 주세요. 가져오기나 동기화가 진행 중이면 완료 후 다시 설치할 수 있습니다. 저장된 업무와 설정은 유지합니다.
+[WebView download](https://github.com/pandabin3-code/damda-releases/releases/download/v0.5.0-beta.6/Damda-WebView-Preview-Setup-0.5.0-beta.6-x64.exe)
 
-설치 파일을 직접 실행하는 경우 WebView 설치본은 앱에 정상 종료를 요청합니다. 브라우저 대체 설치본은 먼저 `앱 종료`를 눌러 주세요. beta.4 앱 안에서 자동 업데이트를 시작한 경우에는 브라우저판의 백엔드도 정상 종료됩니다. 탭만 닫는 것으로는 백엔드가 종료되지 않을 수 있습니다.
-
-## 제공 기능
-
-- 한 메시지에 한 카드, 최신 수신순 정렬, 전체 대상 검색·분류·마감 필터
-- 카드에서 분류·상태 빠른 변경, 완료 시각 기록과 월별 완료 목록
-- 원문 확인, 첨부파일과 URL 연결, 담당·날짜 확인 표시
-- 선택형 쿨메신저 연결과 최초 승인 후 자동 변경 감지
-- Windows 사용자 계정에 연결된 암호화 저장
-- beta 0.5: Google 캘린더 선택 업무 동기화 및 학교 급식 메뉴
-
-Google 캘린더는 데스크톱 OAuth 설정과 Google 로그인이 필요한 단방향 수동 동기화입니다. 학교 급식은 나이스 인증키와 학교 선택이 필요합니다. 계정과 키가 없는 상태의 실제 서비스 연동은 검증 완료로 표시하지 않습니다. 설정하지 않으면 해당 서비스로 백그라운드 요청을 보내지 않습니다.
-
-설치본은 코드 서명이 없는 베타입니다. 일반 사용자 계정의 자동 백업 설정은 전산 담당자의 도움이 필요할 수 있습니다. 모바일 동기화와 모바일 읽음 상태 보존은 현재 제공·보장 기능이 아닙니다.
-
-## 오류와 개인정보
-
-앱에서 준비한 진단 정보와 오류 상황을 확인한 뒤 GitHub에 제출해 주세요. 공개 이슈에 실제 메시지·이름·연락처·교정 데이터 파일을 올리지 마세요.
-
-이 저장소는 공개 설치 파일·소개 자료·배포 안내용입니다. 개인 메시지와 업무 저장소, 로그인 토큰을 포함하지 않습니다.
+[Introduction](https://pandabin3-code.github.io/damda-releases/)

diff --git a/docs/STORY_SOURCES.md b/docs/STORY_SOURCES.md
@@ -1,0 +1,18 @@
+# 담다 이야기의 근거
+
+2026-09-17. 화면은 전부 합성 예시입니다. 실제 개인정보와 교정 자료는 공개하지 않습니다.
+
+| 화면 | 실제 근거 | 촬영 구분 |
+|---|---|---|
+| 초기 TeacherInbox | 보존된 `app/main.py`의 App, 초기 데모·백업·업무 분리 보고서 17·19·20·21 | 보존 프로그램을 합성 DB로 재실행. 최초 빌드 그대로라는 의미가 아님 |
+| 개인 작업 공간 | `new-app/index.html`, 자체 예제, README | 별도로 진행한 화면 실험의 재촬영 |
+| TaskCards | `app-v0.1.0-dev.20260916-source.zip` 내부 HTML/CSS/JS 및 서비스 | 보존 카드 소스 재실행. 저장 기반 의존 모듈은 현재 소스를 사용 |
+| 현재 담다 | 공개판의 실제 카드 UI와 합성 수집기 | 이번 공개 범위 수정 후 재촬영 |
+
+글자 잘림과 늘어난 카드의 시행착오는 보고서 76, 이후 짧은 미리보기는 108, 한 메시지 한 카드는 122에 기록되어 있습니다. 요청·조건·날짜 판단의 한계는 분석 기록 90, 분류 체계는 96에 근거합니다. 이전 COOL 업무비서의 복잡한 화면은 실제 UI 감사 37·38에 기록되어 있습니다.
+
+TeacherInbox → COOL 업무비서 → 별도의 개인 작업 공간 실험 → TaskCards와 담다는 하나의 Git 버전 번호가 연속으로 올라간 과정이 아닙니다. 기존 프로그램과 실험에서 일부 기반을 재사용하며 현재 카드 앱이 만들어졌습니다.
+
+공개 Git 저장소에는 앱 전체의 초기 개발 이력이 없습니다. `f264db3`는 소개 자료 공개, `b273981`·`372bc4c`는 업데이트 안내 기록이며 초기 앱 기능을 만든 커밋으로 표현하지 않았습니다.
+
+학습된 AI 모델이나 실제 메시지 정확도 수치로 발전을 주장하지 않습니다. 현재 판독은 로컬 규칙 기반입니다. 개인 교정 도구·Google 캘린더 연결·급식 조회는 이번 공개판에서 제외했습니다. 과거 화면에 보이는 연결 버튼은 현재 제공 기능의 안내가 아닙니다.

diff --git a/docs/COPY.md b/docs/COPY.md
@@ -1,0 +1,25 @@
+# 담다 DAMDA 소개 문구
+
+Daily Assistant for Messaging & Data Archive
+
+선생님의 하루를 담다.
+
+메시지에서 찾던 할 일, 이제 카드에서 챙겨요.
+제출과 회신, 회의와 신청을 한곳에 모으고, 원문을 확인하며 업무를 정리하세요.
+한 메시지는 한 카드로. 핵심은 간결하게, 필요한 내용은 눌러서 자세히.
+완료한 순간까지 기록하고, 새 버전 알림으로 개선 사항을 받아보세요.
+
+Windows 64비트 설치형 베타입니다. 자동 판독은 로컬 규칙 기반이며 원문 확인이 필요합니다.
+이번 공개판은 메시지와 업무 카드에 집중합니다. Google 캘린더·급식 조회·개인 요약 교정 도구는 제외했습니다. 업무 마감 달력과 일반 카드 수정은 계속 사용할 수 있습니다.
+
+## 담다를 만들며
+
+처음부터 지금의 담다는 아니었어요. 초기 TeacherInbox에서는 메시지를 직접 넣고, 제목과 기한을 검토했습니다. 할 일과 일정을 모아 보는 COOL 업무비서와 단순한 개인 작업 공간도 시도했습니다.
+
+TaskCards에서는 메시지를 큰 카드에 담았습니다. 하지만 글자가 잘리지 않게 하자 카드가 길어졌고, 요청을 나누자 비슷한 카드가 반복되기도 했습니다. 그래서 지금은 메시지 하나를 카드 하나로 담고, 목록에서는 짧게, 필요할 때 원문을 펼쳐 보게 했습니다.
+
+짧다고 늘 좋은 요약은 아니었습니다. 대상과 조건도 놓치지 않도록 근거를 남기고 직접 고칠 수 있게 했습니다. 담다는 아직 다듬는 중입니다. 다시 찾는 수고가 조금씩 줄어들기를 바랍니다.
+
+담다 · Daily Assistant for Messaging & Data Archive
+
+화면 출처와 재촬영 조건은 STORY_SOURCES.md를 참고하세요.

diff --git a/docs/PAGE_BRIEF.md b/docs/PAGE_BRIEF.md
@@ -1,0 +1,8 @@
+# 페이지 제작 지침
+
+이름: 담다 DAMDA / Daily Assistant for Messaging & Data Archive
+대상: 쿨메신저의 요청을 놓치지 않고 관리하려는 선생님.
+기존 흰색·푸른색 레이아웃과 넓은 여백, 기능별 화면 배치를 유지합니다.
+핵심 순서: 업무 한눈에 → 원문과 편집 → 확인 필요 → 완료 기록 → 연결 → 저장과 오류 보고.
+다운로드는 GitHub Releases로 연결합니다. 출시되지 않은 기능을 제공 중으로 표현하지 않습니다.
+모든 이미지는 새 임시 저장소에 만든 가상 예시이며 개인정보를 포함하지 않습니다.

diff --git a/docs/SCREENSHOTS.md b/docs/SCREENSHOTS.md
@@ -1,0 +1,16 @@
+# 담다 screenshots
+
+Current app: 0.5.0-beta.6. All content is fictional.
+
+- images/01-dashboard.png
+- images/02-detail.png
+- images/03-completed.png
+- images/04-settings.png
+- images/05-review.png
+- images/06-intake.png
+- images/07-analysis.png
+- images/story-01-legacy-inbox.png
+- images/story-02-personal-workspace.png
+- images/story-03-taskcards-archive.png
+
+The first seven images are current synthetic captures. The three story images are retained-source reruns; see STORY_SOURCES.md. No actual backup or external account request was performed. The page uses ten image elements.

diff --git a/docs/README.md b/docs/README.md
@@ -1,0 +1,6 @@
+# 담다 DAMDA 소개 페이지
+
+index.html을 열면 됩니다. 기존 디자인을 유지하고 현재 설치형 앱의 문구와 합성 화면으로 최신화했습니다.
+이미지는 images 폴더에 기능별 PNG로 저장했습니다. 외부 업로드 없이 로컬에서 열 수 있습니다.
+설치 파일은 https://github.com/pandabin3-code/damda-releases/releases 에서 제공합니다.
+소개 ZIP에는 프로그램, 실제 메시지, 계정 정보가 없습니다.

diff --git a/docs/HOOKS.md b/docs/HOOKS.md
@@ -1,0 +1,9 @@
+# 소개용 짧은 문구
+
+- 선생님의 하루를 담다.
+- 메시지는 쌓여도, 할 일은 놓치지 않도록.
+- 한 메시지, 한 카드. 오늘 할 일이 보입니다.
+- 찾던 요청을, 챙기는 업무로.
+- 끝낸 일까지 기억하는 나의 업무 공간.
+
+정확도 100%, 읽음 상태 보장, 완전 자동 처리 등의 검증되지 않은 표현은 사용하지 않습니다.
